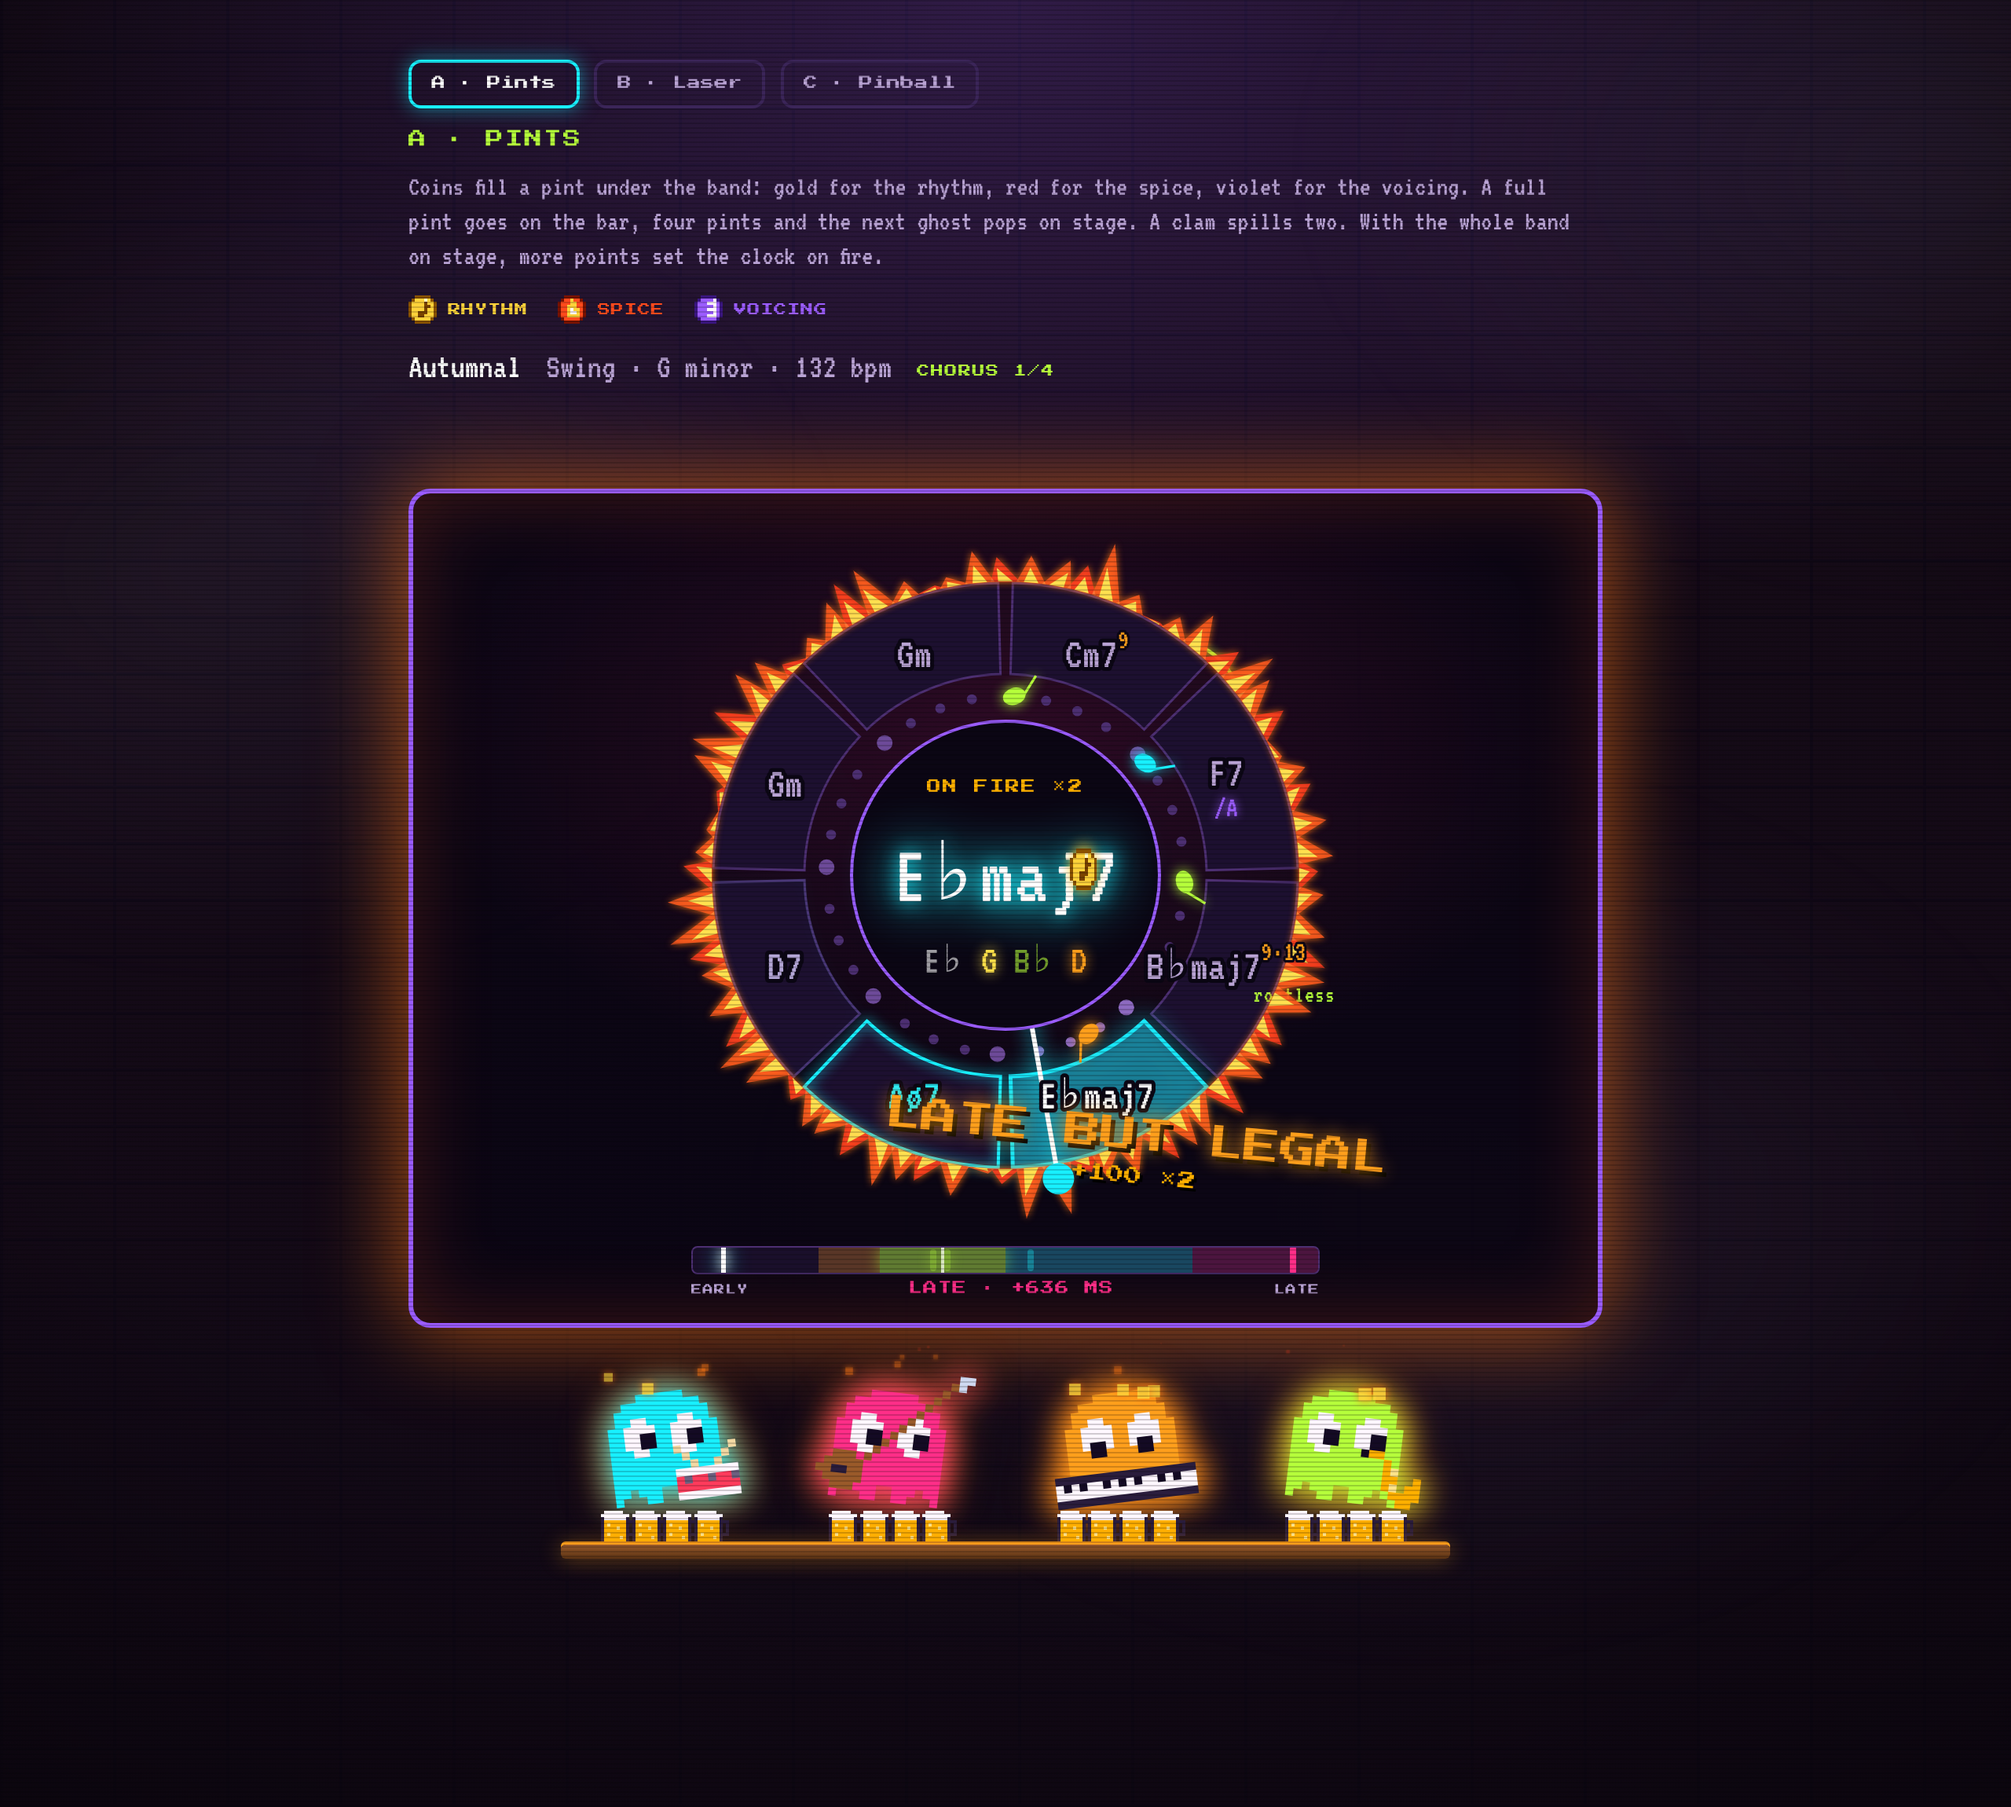
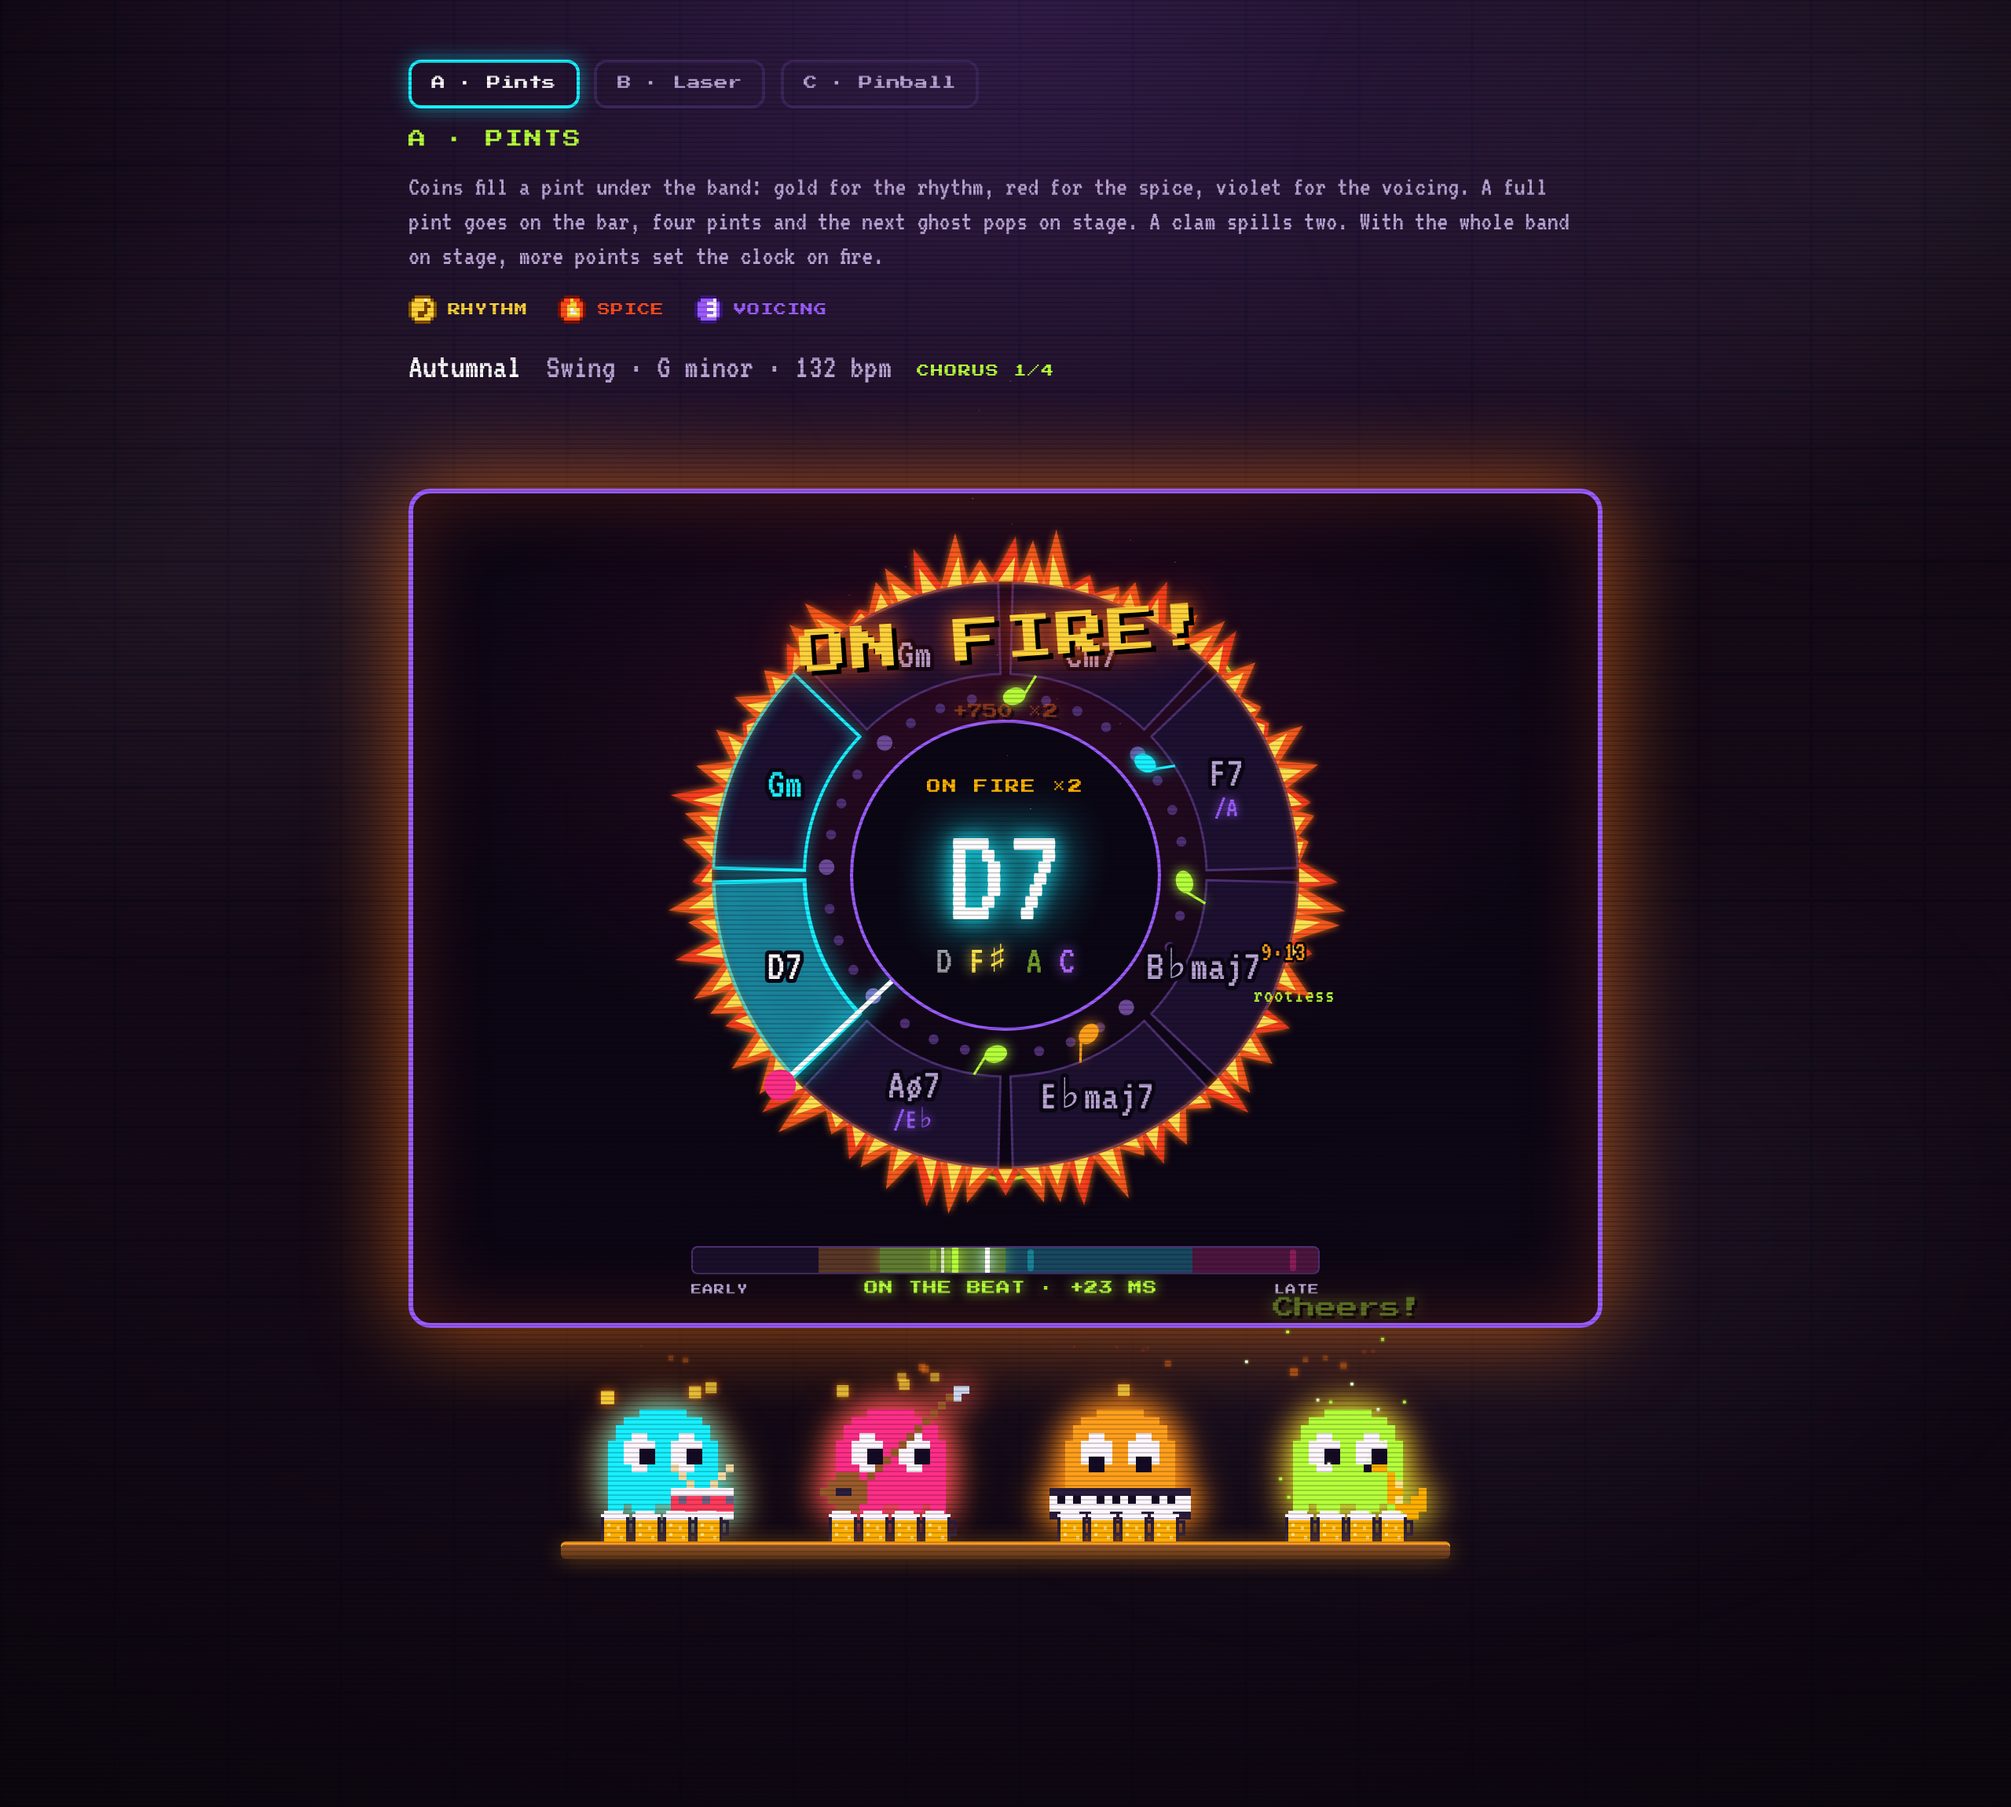
Ghost Jam mockup: pints fill at the same pace as the other takes
Claude-Session: https://claude.ai/code/session_01Le2tHyMyTAuLzEQAjN14ij

Changed region(s): [[0.2812, 0.2778, 0.7188, 0.8643], [0.3438, 0.6791, 0.375, 0.71]]

diff --git a/docs/mockups/circular-progression.html b/docs/mockups/circular-progression.html
@@ -307,7 +307,7 @@ function deliveries(s) {
       const n = COIN_N[k];
       for (let c = 0; c < n; c++, j++) {
         const leave = h + 0.18 + j * 0.04;
-        out.push({ kind: k, j, leave, land: k === 'miss' ? leave : leave + 1.0, value: (FX === 'pints' ? 2 : 1) * VALUE[k] / n });
+        out.push({ kind: k, j, leave, land: k === 'miss' ? leave : leave + 1.0, value: VALUE[k] / n });
       }
     });
     out[out.length - 1].last = true;
